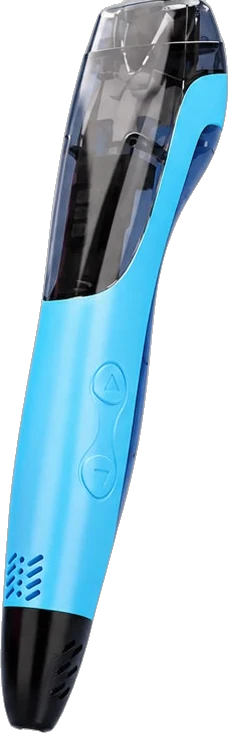
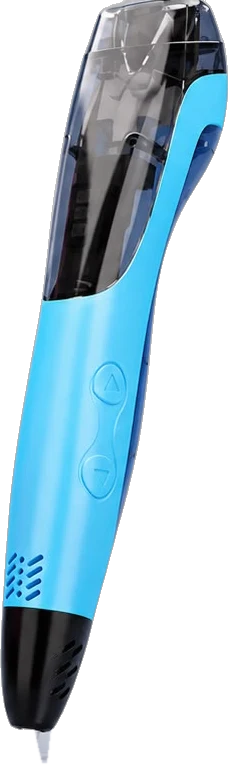
Hero arrows replace dots/pause; pen nibs restored; printers hero uses Mini-N/N1/N2 lineup; Halot One second image; curved pen-page shape; About us label; new learning-hub image
Claude-Session: https://claude.ai/code/session_017oTSaM5Uc2EzXpEXUk3UEA

diff --git a/src/scripts/slider.ts b/src/scripts/slider.ts
@@ -173,6 +173,9 @@ if (root && ui) {
   }
 
   dots.forEach((d, k) => d.addEventListener('click', () => go(k)));
+  const heroEl = root.closest('.hero') || document;
+  heroEl.querySelector('[data-prev]')?.addEventListener('click', () => go((current + slides.length - 1) % slides.length));
+  heroEl.querySelector('[data-next]')?.addEventListener('click', () => go((current + 1) % slides.length));
   pauseBtn?.addEventListener('click', () => {
     paused = !paused;
     pauseBtn.setAttribute('aria-pressed', String(paused));
